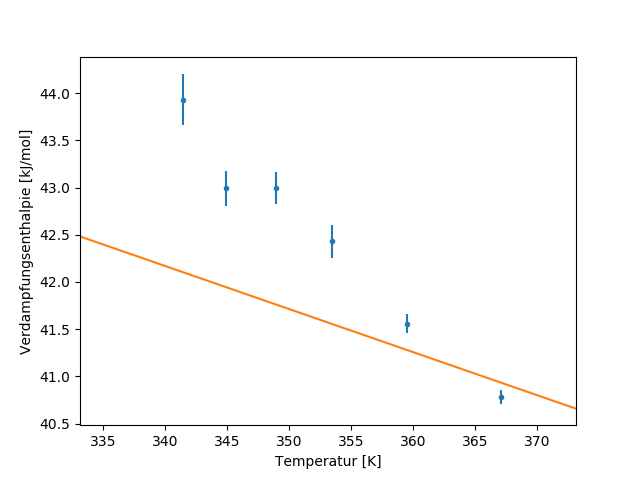
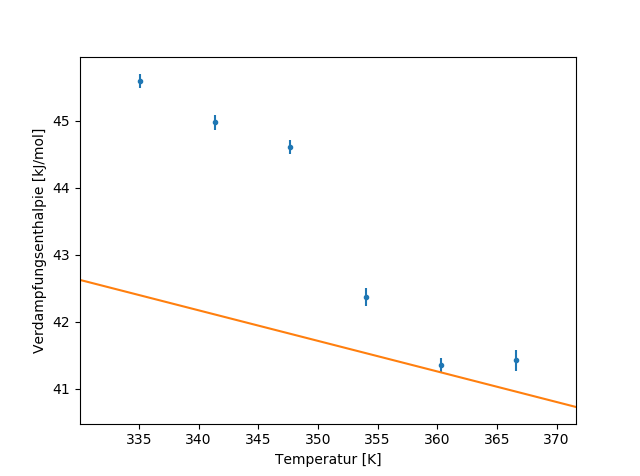
kleinere Sachen

diff --git a/Thermodynamik/Python/Auswertung_Hauptmessung_neu_A.py b/Thermodynamik/Python/Auswertung_Hauptmessung_neu_A.py
@@ -151,6 +151,8 @@ sigma_stat_steigung_array = np.empty(n)
 sigma_sys_steigung_array = np.empty(n)
 steigung_array = np.empty(n)
 temp_array = np.empty(n)
+enthalpie = np.empty(n)
+sigma_sys_enthalpie_array = np.empty(n)
 
 for i in range(n):
     # Temperaturbereich auswählen
@@ -178,8 +180,14 @@ for i in range(n):
                              
     # Systematische Unsicherheit auf Steigung berechnen
     sigma_sys_steigung_array[i] = np.sqrt( (np.abs(a_t2-a)+np.abs(a_t1-a))**2/4 + (np.abs(a_p2-a)+ np.abs(a_p1-a))**2/4 )
+    enthalpie[i] = -a *R /1000
+    enthalpie_1 = - a_t1*R/1000
+    enthalpie_2 = - a_t2*R/1000
+    enthalpie_3 = - a_p1*R/1000
+    enthalpie_4 = - a_p2*R/1000
+    sigma_sys_enthalpie_array[i] = np.sqrt( (np.abs(enthalpie_2-enthalpie[i])+np.abs(enthalpie_1-enthalpie[i]))**2/4 + (np.abs(enthalpie_3-enthalpie[i])+ np.abs(enthalpie_4-enthalpie[i]))**2/4 )
     
-    if (i == 3):
+    if (i == 4):
         plt.figure(5)
         plt.errorbar(x, y, xerr=ex_stat, yerr=ey_stat, fmt=".")
         plt.xlabel( "$(1/T - 1/T_0) [1/K]$")
@@ -206,7 +214,7 @@ for i in range(n):
         plt.xticks(rotation=0)
     mittlere_temp = (tmin+tmax)/2
     temp_array[i] = mittlere_temp
-    print ("\nTemperatur = {:3.3f} ({:3.3f} bis {:3.3f})\n$\literaturwert$ = {:3.3f}, $\sigma_\literaturwert$ = {:3.3f}\n"\
+    print ("\nTemperatur = {:3.3f} ({:3.3f} bis {:3.3f})\n$\Lambda$ = {:3.3f}, $\sigma_\Lamda$ = {:3.3f}\n"\
            .format(mittlere_temp, tmin, tmax, -a*R/1000, ea*R/1000))
 
 
@@ -218,7 +226,7 @@ for i in range(n):
 
 plt.figure(7)
 # Verdampfungsenthalpie in kJ/mol
-enthalpie = -steigung_array * R /1000
+#enthalpie = -steigung_array * R /1000
 sigma_enthalpie_stat = sigma_stat_steigung_array * R /1000
 sigma_enthalpie_sys = sigma_sys_steigung_array * R/1000
 sigma_enthalpie = np.sqrt(sigma_enthalpie_stat**2 + sigma_enthalpie_sys**2)

diff --git a/Thermodynamik/Python/Auswertung_Hauptmessung_neu_B.py b/Thermodynamik/Python/Auswertung_Hauptmessung_neu_B.py
@@ -151,6 +151,8 @@ sigma_stat_steigung_array = np.empty(n)
 sigma_sys_steigung_array = np.empty(n)
 steigung_array = np.empty(n)
 temp_array = np.empty(n)
+enthalpie = np.empty(n)
+sigma_sys_enthalpie_array = np.empty(n)
 
 for i in range(n):
     # Temperaturbereich auswählen
@@ -178,6 +180,12 @@ for i in range(n):
                              
     # Systematische Unsicherheit auf Steigung berechnen
     sigma_sys_steigung_array[i] = np.sqrt( (np.abs(a_t2-a)+np.abs(a_t1-a))**2/4 + (np.abs(a_p2-a)+ np.abs(a_p1-a))**2/4 )
+    enthalpie[i] = -a *R /1000
+    enthalpie_1 = - a_t1*R/1000
+    enthalpie_2 = - a_t2*R/1000
+    enthalpie_3 = - a_p1*R/1000
+    enthalpie_4 = - a_p2*R/1000
+    sigma_sys_enthalpie_array[i] = np.sqrt( (np.abs(enthalpie_2-enthalpie[i])+np.abs(enthalpie_1-enthalpie[i]))**2/4 + (np.abs(enthalpie_3-enthalpie[i])+ np.abs(enthalpie_4-enthalpie[i]))**2/4 )
     
     if (i == 3):
         plt.figure(5)
@@ -218,7 +226,7 @@ for i in range(n):
 
 plt.figure(7)
 # Verdampfungsenthalpie in kJ/mol
-enthalpie = -steigung_array * R /1000
+#enthalpie = -steigung_array * R /1000
 sigma_enthalpie_stat = sigma_stat_steigung_array * R /1000
 sigma_enthalpie_sys = sigma_sys_steigung_array * R/1000
 sigma_enthalpie = np.sqrt(sigma_enthalpie_stat**2 + sigma_enthalpie_sys**2)
